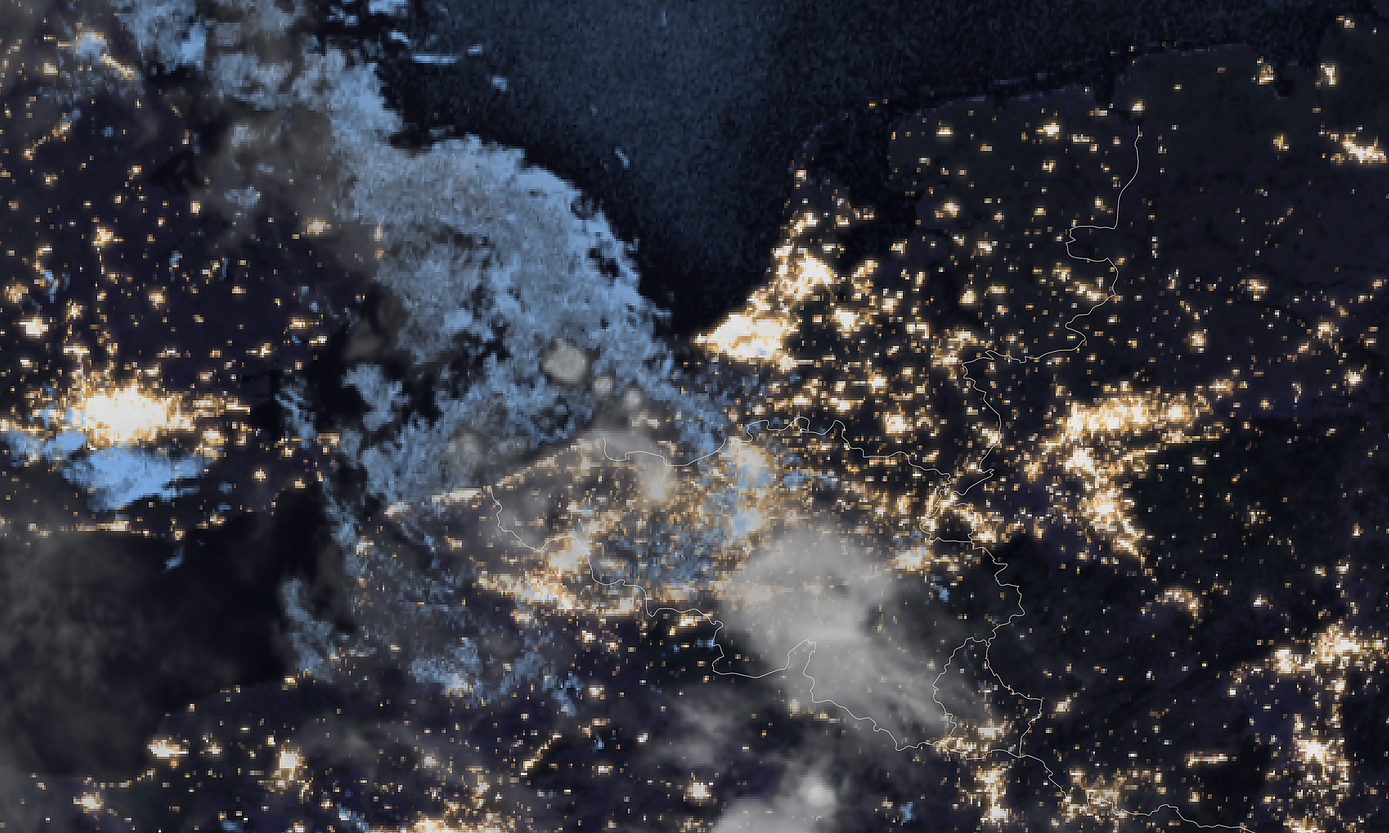
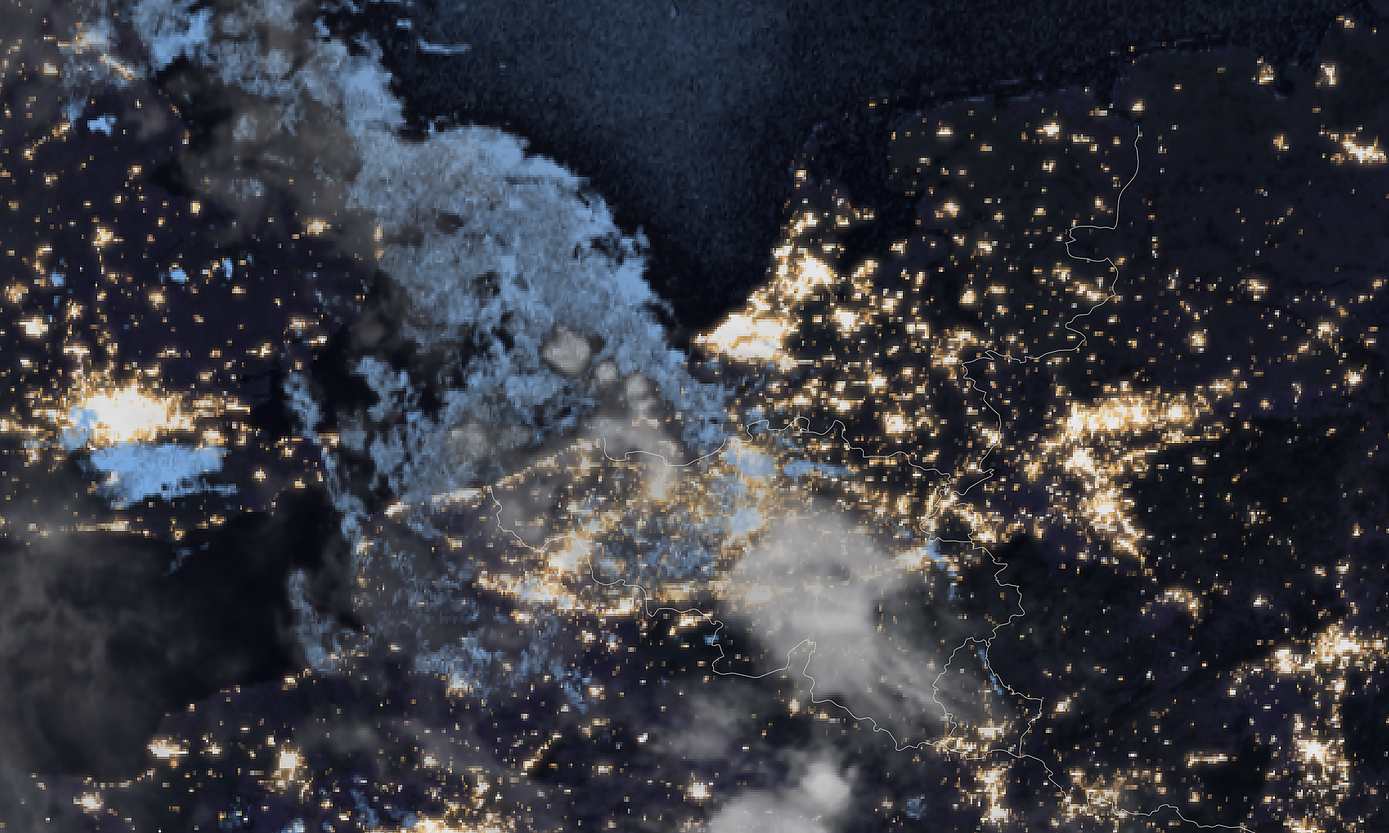
MTG Benelux satellietbeeld update 2026-05-02 05:15

diff --git a/mtg_benelux_meta.js b/mtg_benelux_meta.js
@@ -1,2 +1,2 @@
 const MTG_BENELUX_PRODUCT = "mtg_fd:rgb_geocolour";
-const MTG_BENELUX_TIJD = "2026-05-02T02:40:00Z";
+const MTG_BENELUX_TIJD = "2026-05-02T02:50:00Z";
